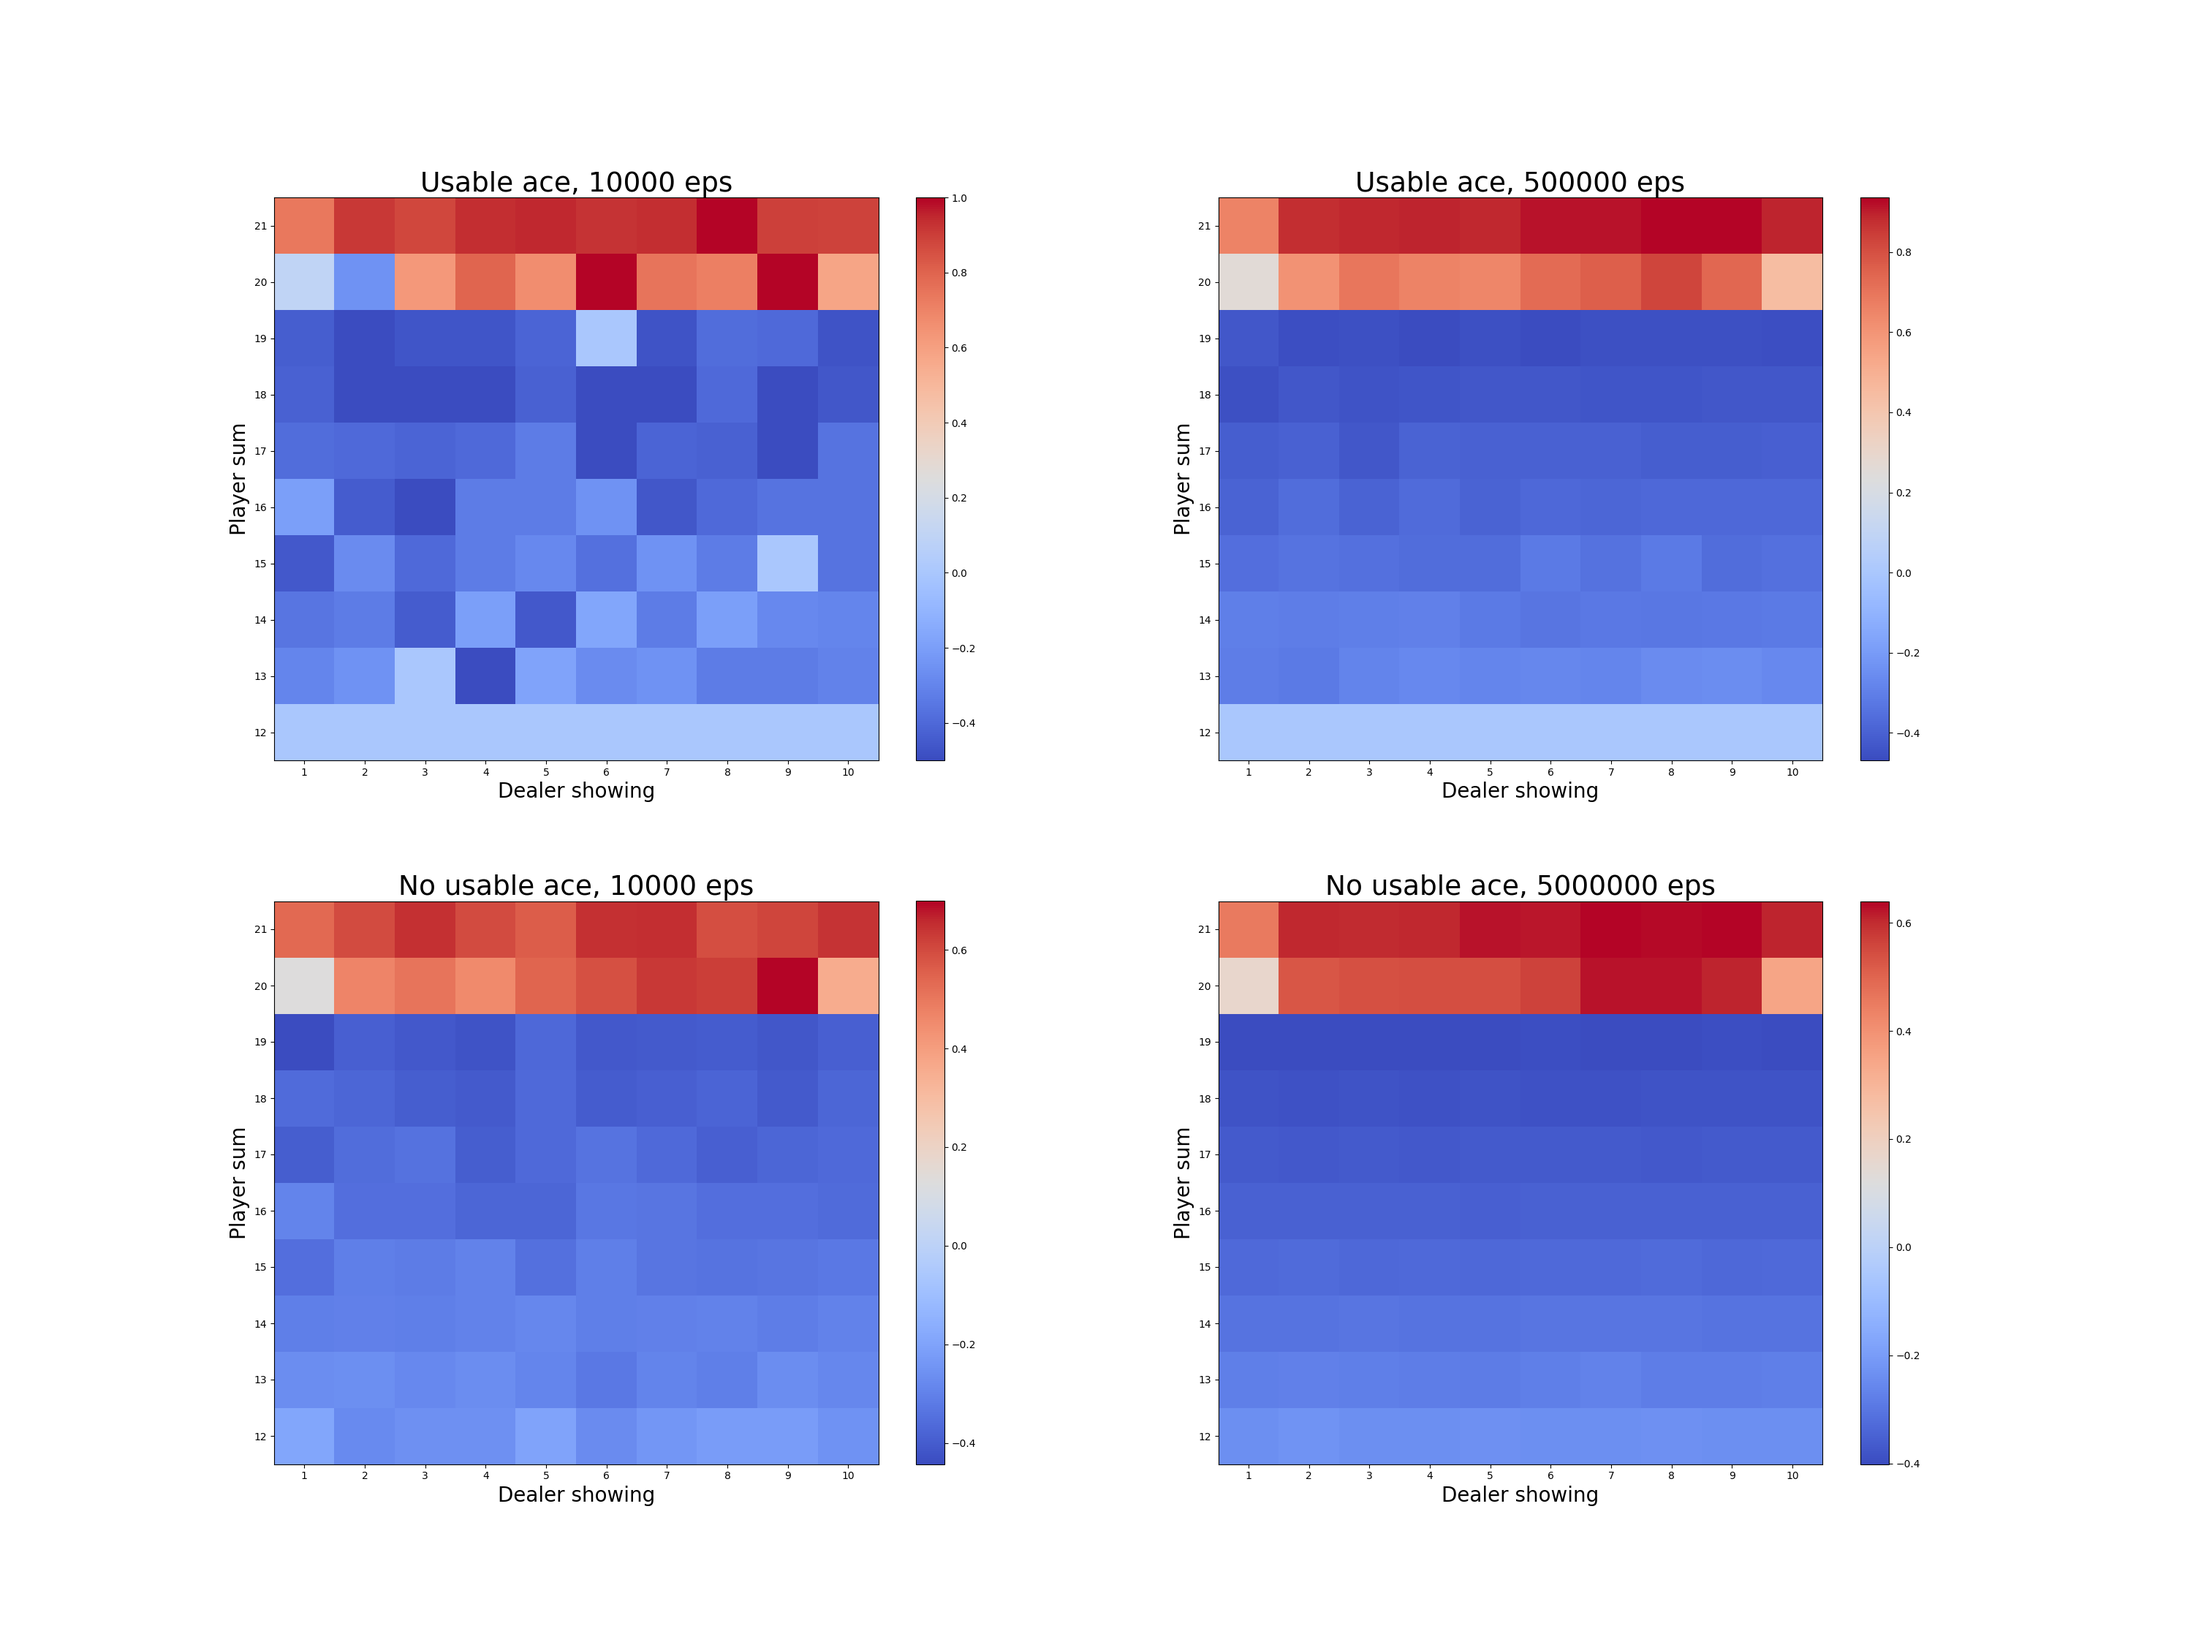
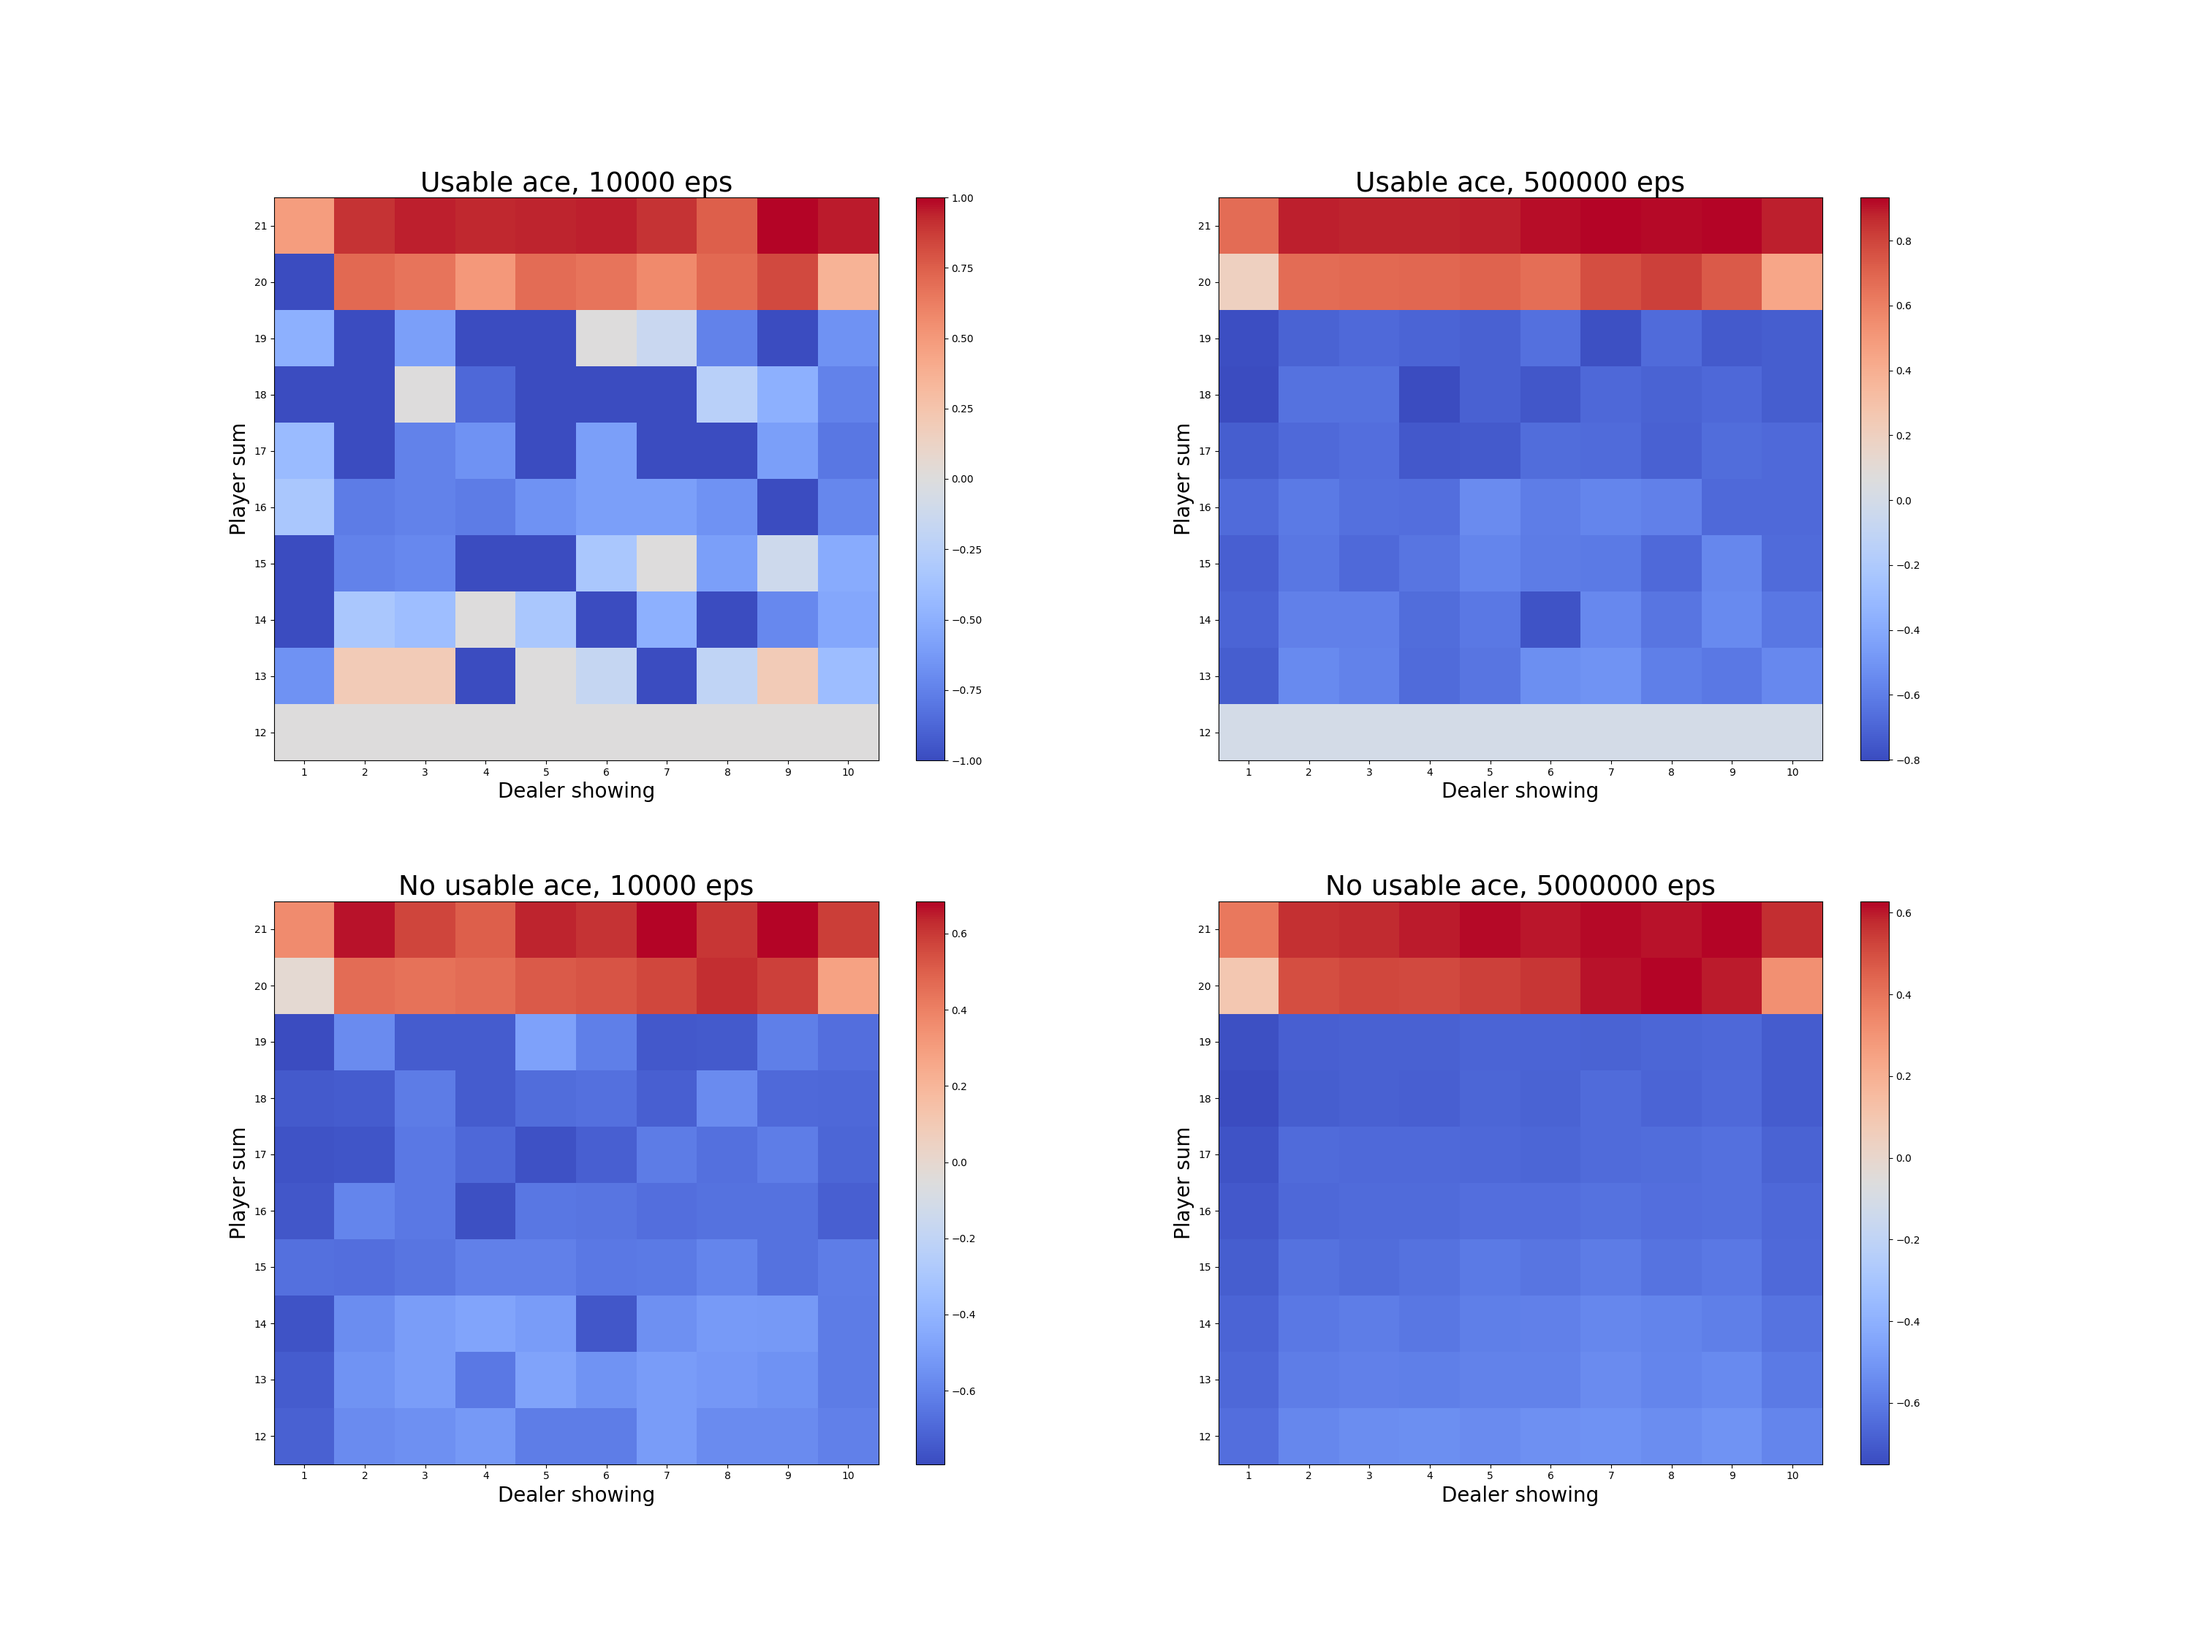
update blackjack.py

diff --git a/chapter-5/blackjack.py b/chapter-5/blackjack.py
@@ -6,7 +6,7 @@ from tqdm import tqdm
 import matplotlib.ticker as mticker
 
 
-rewards = {'win': 1, 'draw': 0, 'lose': -1, 'ingame_r': 0}
+rewards = {'win': 1, 'draw': 0, 'lose': -1}
 actions = {'hits': 1, 'sticks': 0, 'busts': -1}
 
 
@@ -66,14 +66,12 @@ def play():
                     player_usable_card = False
             else:
                 action = actions['busts']
-                prev_state = game_trajectory[-1][0]
-                game_trajectory.append((prev_state, action, rewards['lose']))
-                return game_trajectory
+                return (game_trajectory, rewards['lose'])
         elif player_sum == 20 or player_sum == 21:
             break
         else:
             action = actions['hits']
-            game_trajectory.append((state, action, rewards['ingame_r']))
+            game_trajectory.append((state, action))
 
             card = get_card()
             if card == 1:
@@ -92,8 +90,8 @@ def play():
                 if dealer_ace_count == 0:
                     dealer_usable_card = False
             else:
-                game_trajectory.append((state, action, rewards['win']))
-                return game_trajectory
+                game_trajectory.append((state, action))
+                return (game_trajectory, rewards['win'])
         elif dealer_sum >= 17:
             break
         else:
@@ -106,13 +104,14 @@ def play():
     # compare the final sum between player and dealer (happens when both sum <= 21)
     state = [player_sum, player_usable_card, dealer_showed_card]
     if player_sum > dealer_sum:
-        game_trajectory.append((state, action, rewards['win']))
+        game_trajectory.append((state, action))
+        return (game_trajectory, rewards['win'])
     elif player_sum == dealer_sum:
-        game_trajectory.append((state, action, rewards['draw']))
+        game_trajectory.append((state, action))
+        return (game_trajectory, rewards['draw'])
     else:
-        game_trajectory.append((state, action, rewards['lose']))
-
-    return game_trajectory
+        game_trajectory.append((state, action))
+        return (game_trajectory, rewards['lose'])
 
 
 def first_visit_MC(episodes):
@@ -121,10 +120,17 @@ def first_visit_MC(episodes):
     states_no_usable_ace = np.zeros((10, 10))
     states_no_usable_ace_count = np.zeros((10, 10))
 
-    for i in tqdm(range(episodes)):
-        game_trajectory = play()
 
-        for (state, action, reward) in game_trajectory:
+def on_policy_first_visit_MC(episodes):
+    states_usable_ace = np.zeros((10, 10))
+    states_usable_ace_count = np.zeros((10, 10))
+    states_no_usable_ace = np.zeros((10, 10))
+    states_no_usable_ace_count = np.zeros((10, 10))
+
+    for i in tqdm(range(episodes)):
+        game_trajectory, reward = play()
+
+        for (state, _) in game_trajectory:
             # since player's sum in range [12, 21]
             player_sum = state[0] - 12
             # since dealer's card in range [1, 10]
@@ -132,6 +138,7 @@ def first_visit_MC(episodes):
 
             # If player having usable card
             if state[1]:
+                # since each state appear only one at most in every episode
                 states_usable_ace[player_sum, dealer_card] += reward
                 states_usable_ace_count[player_sum, dealer_card] += 1
             else:
@@ -149,8 +156,8 @@ def first_visit_MC(episodes):
 
 
 if __name__ == '__main__':
-    states_usable_ace_1, states_no_usable_ace_1 = first_visit_MC(10000)
-    states_usable_ace_2, states_no_usable_ace_2 = first_visit_MC(500000)
+    states_usable_ace_1, states_no_usable_ace_1 = on_policy_first_visit_MC(10000)
+    states_usable_ace_2, states_no_usable_ace_2 = on_policy_first_visit_MC(500000)
 
     states = [states_usable_ace_1, states_usable_ace_2, states_no_usable_ace_1, states_no_usable_ace_2]
 
